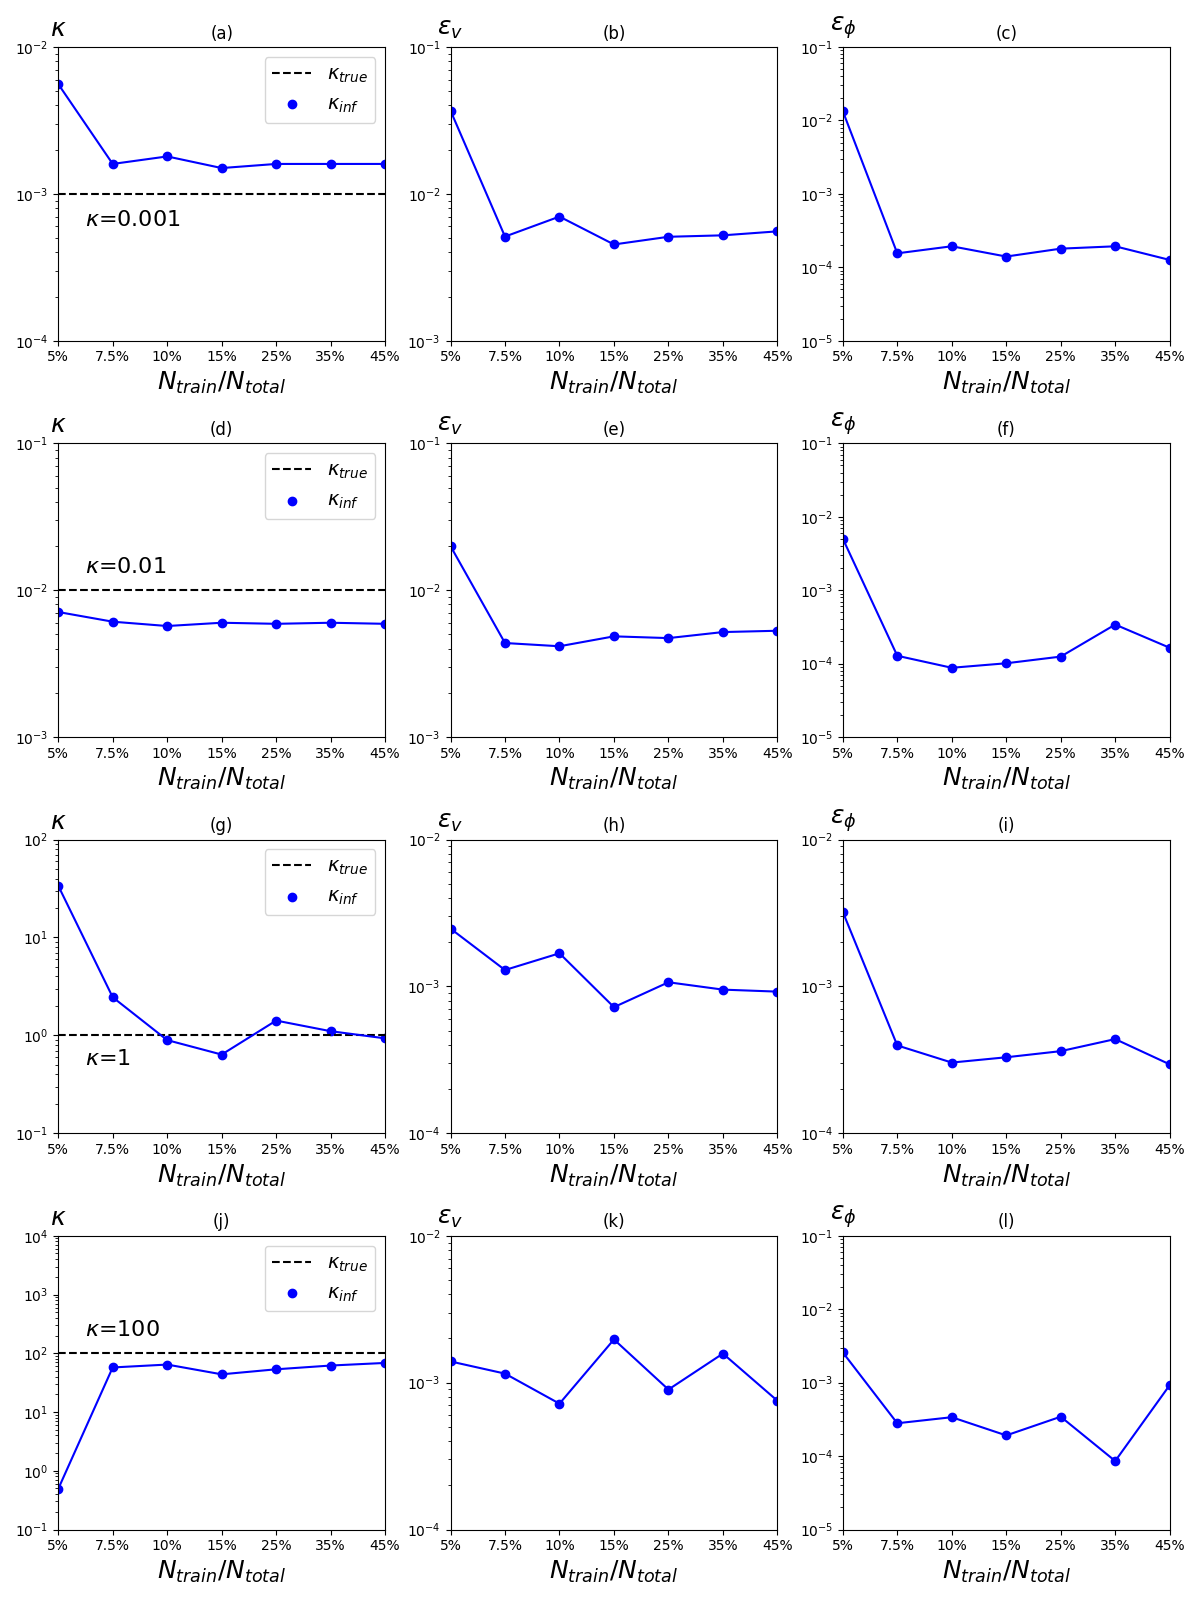
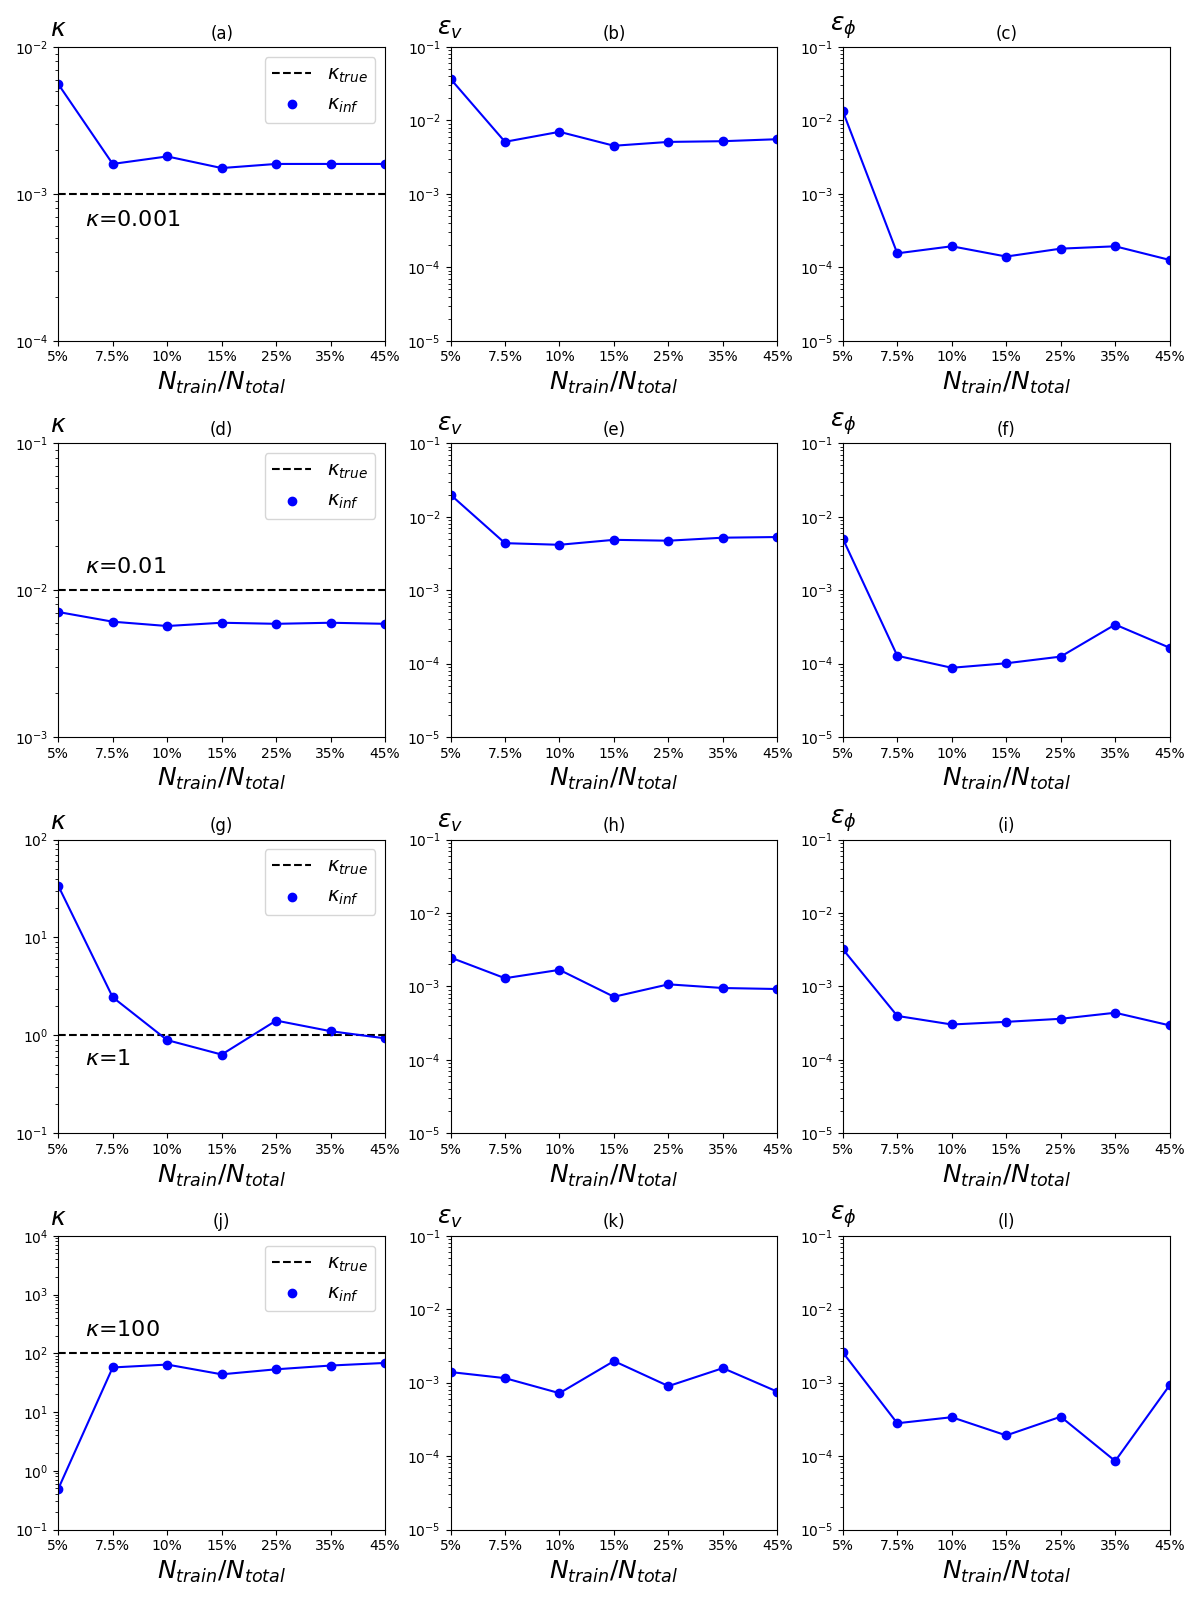
.

diff --git a/Thrombus/Plot/K_num/fig_5.py b/Thrombus/Plot/K_num/fig_5.py
@@ -82,7 +82,7 @@ def main():
     ax2.set_xticklabels(num_pt)
     # ax2.set_yticks(np.linspace(0, 12, 6))
     ax2.set_xlim([1,7])
-    ax2.set_ylim([1e-3, 1e-1])
+    ax2.set_ylim([1e-5, 1e-1])
     ax2.set_yscale('log')
     ax2.set_title('(b)')
     ax2.yaxis.set_label_coords(0.0,1.02)
@@ -130,7 +130,7 @@ def main():
     ax5.set_xticklabels(num_pt)
     # ax2.set_yticks(np.linspace(0, 12, 6))
     ax5.set_xlim([1,7])
-    ax5.set_ylim([1e-3, 1e-1])
+    ax5.set_ylim([1e-5, 1e-1])
     ax5.set_yscale('log')
     ax5.set_title('(e)')
     ax5.yaxis.set_label_coords(0.0,1.02)
@@ -179,7 +179,7 @@ def main():
     ax8.set_xticklabels(num_pt)
     # ax2.set_yticks(np.linspace(0, 12, 6))
     ax8.set_xlim([1,7])
-    ax8.set_ylim([1e-4, 1e-2])
+    ax8.set_ylim([1e-5, 1e-1])
     ax8.set_yscale('log')
     ax8.set_title('(h)')
     ax8.yaxis.set_label_coords(0.0,1.02)
@@ -194,7 +194,7 @@ def main():
     ax9.set_xticklabels(num_pt)
     ax9.set_xlim([1,7])
     # ax2.set_yticks(np.linspace(0, 12, 6))
-    ax9.set_ylim([1e-4, 1e-2])
+    ax9.set_ylim([1e-5, 1e-1])
     ax9.set_yscale('log')
     ax9.set_title('(i)')
     ax9.yaxis.set_label_coords(0.0,1.02)
@@ -228,7 +228,7 @@ def main():
     ax11.set_xticklabels(num_pt)
     # ax2.set_yticks(np.linspace(0, 12, 6))
     ax11.set_xlim([1,7])
-    ax11.set_ylim([1e-4, 1e-2])
+    ax11.set_ylim([1e-5, 1e-1])
     ax11.set_yscale('log')
     ax11.set_title('(k)')
     ax11.yaxis.set_label_coords(0.0,1.02)
